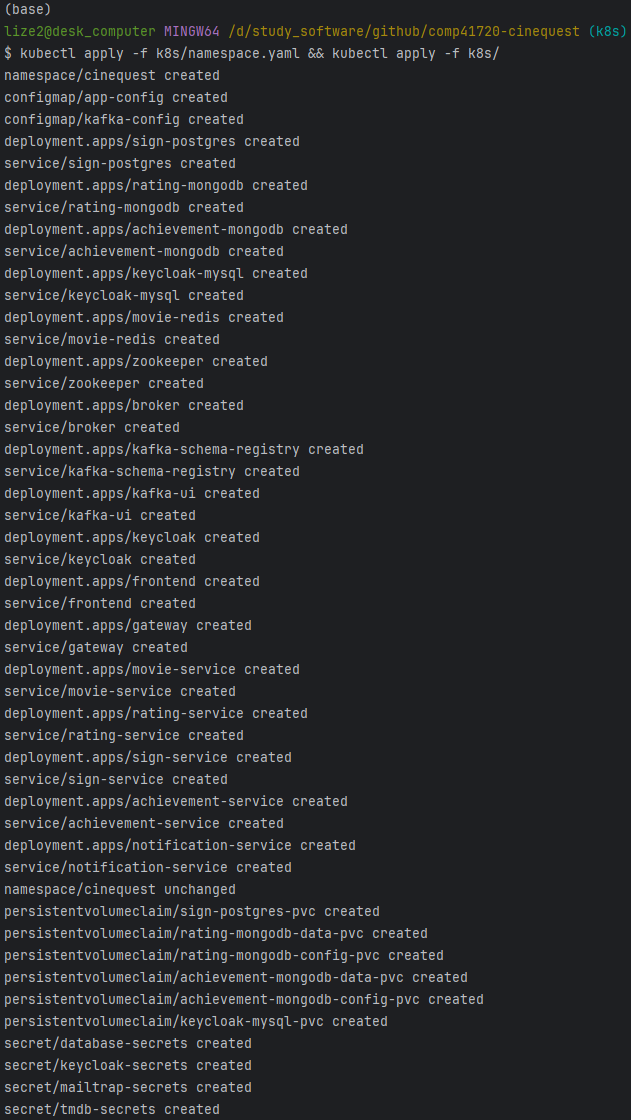
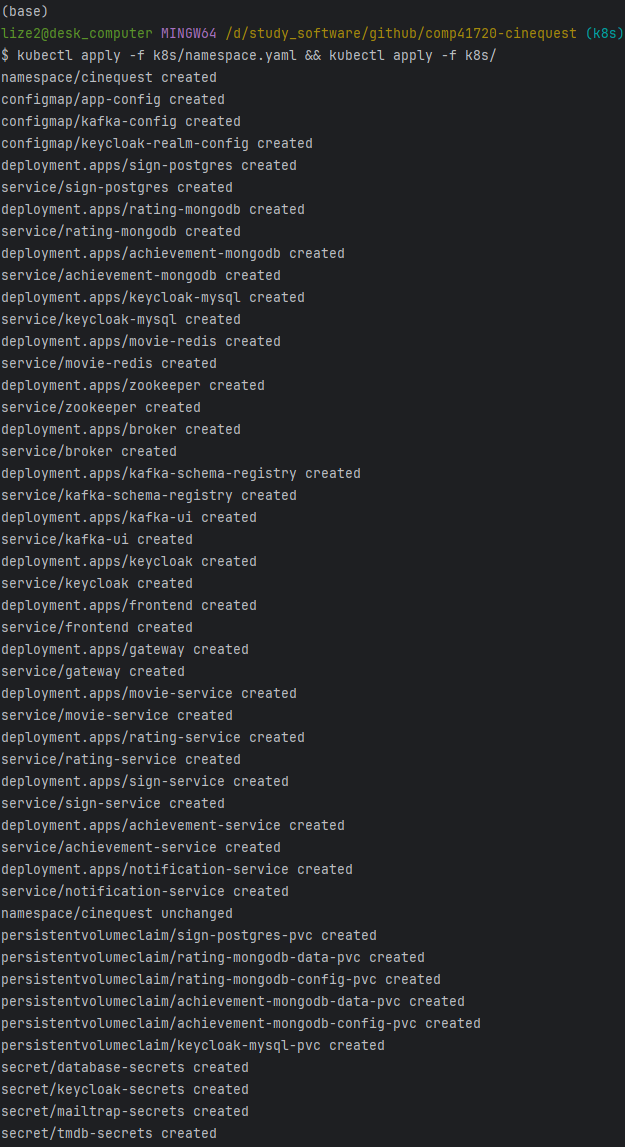
debugging keycloak in k8s, mapconfig not working

Changed region(s): [[0.0, 0.0, 1.0, 1.0]]

diff --git a/readme.md b/readme.md
@@ -20,7 +20,7 @@ kubectl get pod -n cinequest
 ```
 **Start API gateway proxy and send requests using Postman(or any other tools)**
 ```bash
-kubectl port-forward service/frontend -n cinequest 8080:80
+kubectl port-forward service/frontend -n cinequest 3000:80
 ```
 **Open http://localhost:8080 in your browser and try our amazing movie website~**
 #### CleanUp
